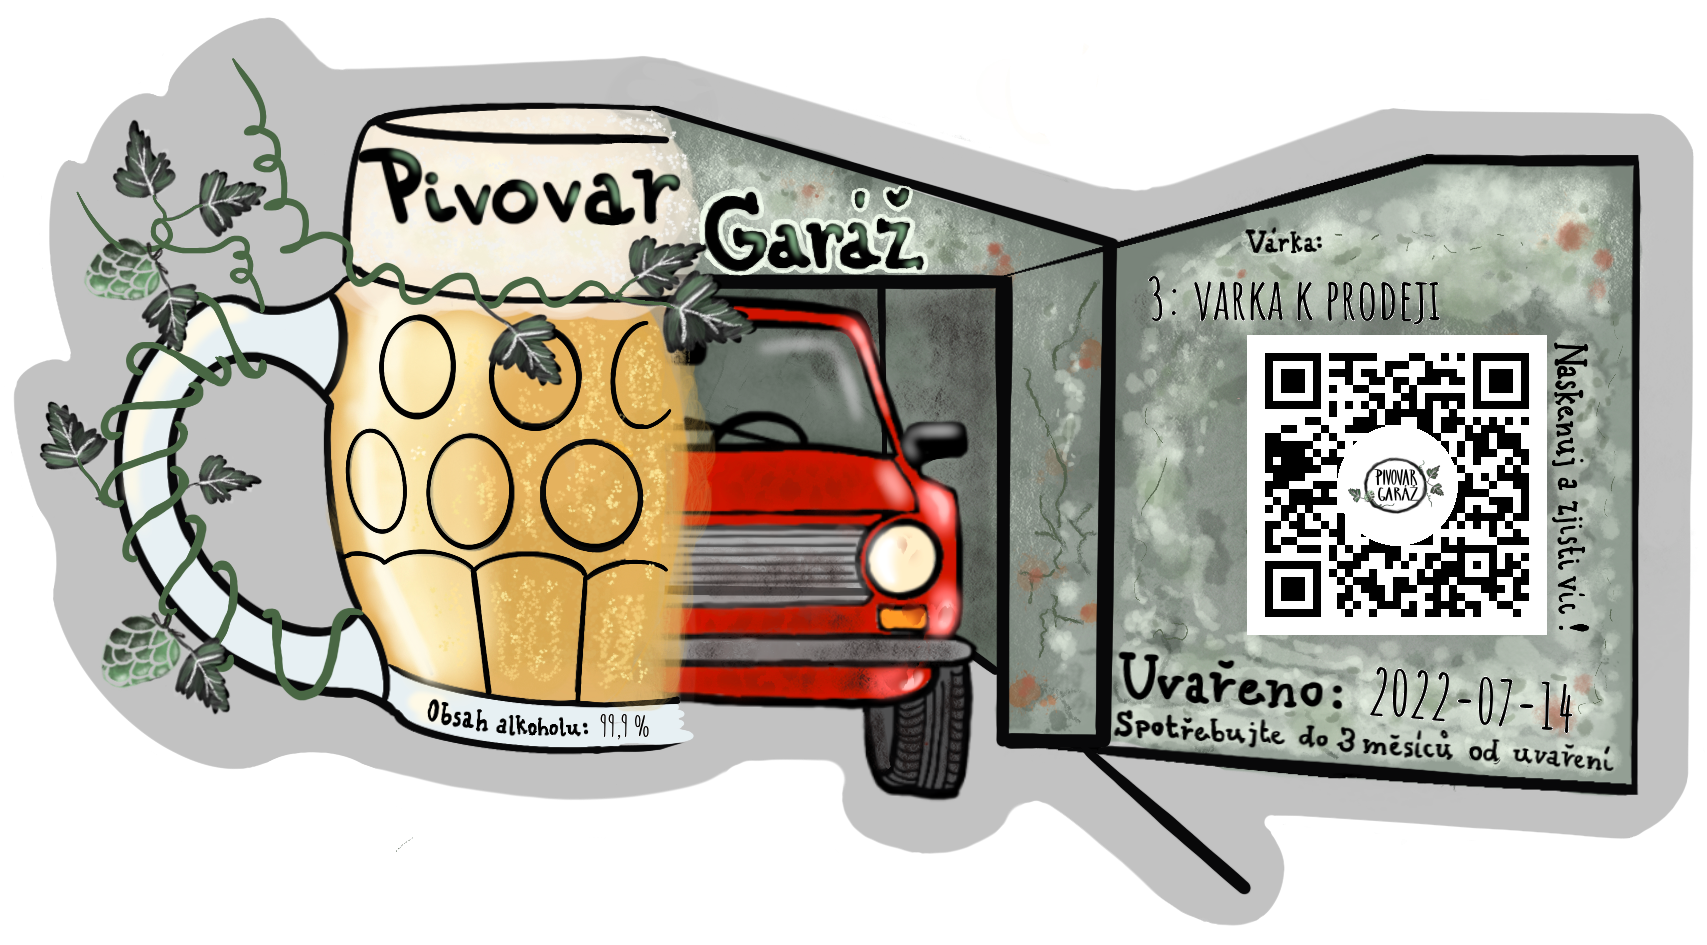
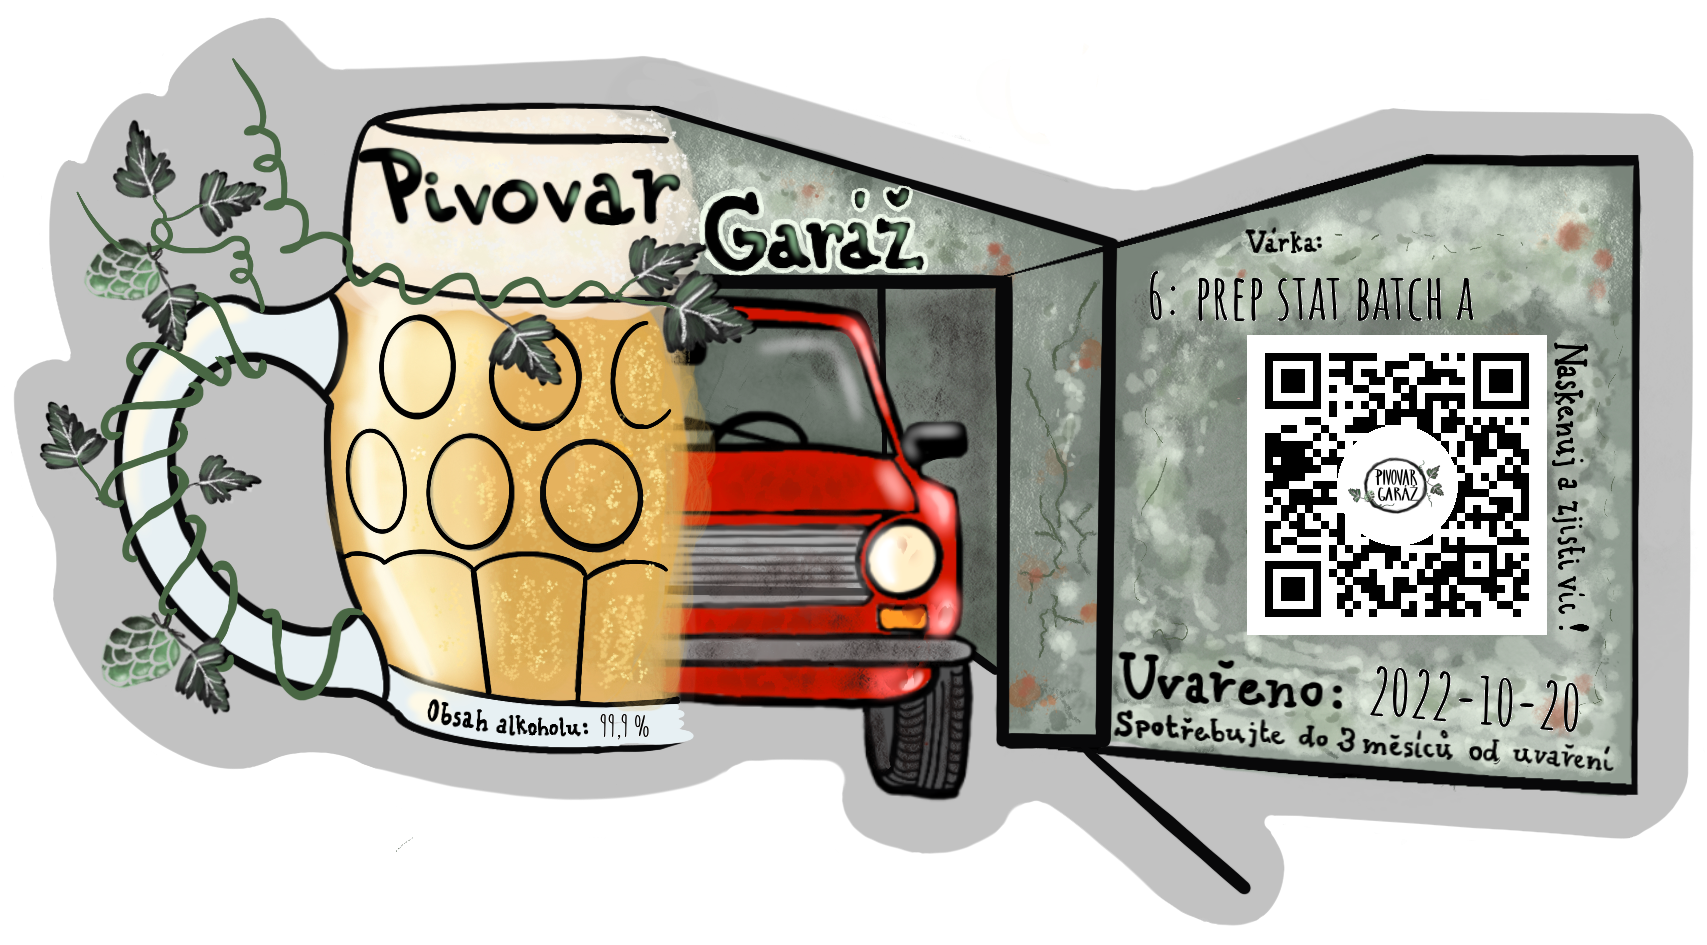
beer detail page #34

Changed region(s): [[0.652, 0.2762, 0.8694, 0.3376], [0.8073, 0.7058, 0.9315, 0.7672]]

diff --git a/index.html b/index.html
@@ -34,9 +34,13 @@
                     <p>U nás v pivovaru rádi <span class="text-primary">experimentujeme</span> s různými kombinacemi
                         chmelů
                         a sladů, stále hledáme naše místo a naší <span class="text-primary">specifickou chuť</span>. Pár
-                        osvědčených receptů už ale máme, najdeš je po přihlášení v naší <span
-                            class="text-primary">Elektronické Garáži</span>.</p>
-                    <a href="#egarage" class="btn btn-primary">Co je Elektronická Garáž?</a>
+                        <span class="text-primary">osvědčených receptů</span> už ale máme, tak na ně klidně koukni.
+                    </p>
+                    <a href="lists/beersPage.php" class="btn btn-primary"><i class="bi bi-cup pe-2"></i>Chci víc</a>
+                    <p class="pt-4">Nebo se rovnou můžeš podívat na <span class="text-primary">várky</span>, které jsme
+                        <span class="text-primary">z</span> těchto <span class="text-primary">piv uvařili</span>.</p>
+                    <a href="lists/batchesPage.php" class="btn btn-primary"><i class="bi bi-eye pe-2"></i>Ukaž mi
+                        várky</a>
                 </div>
             </div>
         </div>
@@ -49,9 +53,12 @@
                 <p>U nás v pivovaru rádi <span class="text-primary">experimentujeme</span> s různými kombinacemi
                     chmelů
                     a sladů, stále hledáme naše místo a naší <span class="text-primary">specifickou chuť</span>. Pár
-                    osvědčených receptů už ale máme, najdeš je po přihlášení v naší <span
-                        class="text-primary">Elektronické Garáži</span>.</p>
-                <a href="#egarage" class="btn btn-primary">Co je Elektronická Garáž?</a>
+                    <span class="text-primary">osvědčených receptů</span> už ale máme, tak na ně klidně koukni.
+                </p>
+                <a href="lists/beersPage.php" class="btn btn-primary"><i class="bi bi-cup pe-2"></i>Chci víc</a>
+                <p class="pt-4">Nebo se rovnou můžeš podívat na <span class="text-primary">várky</span>, které jsme
+                    <span class="text-primary">z</span> těchto <span class="text-primary">piv uvařili</span>.</p>
+                <a href="lists/batchesPage.php" class="btn btn-primary"><i class="bi bi-eye pe-2"></i>Ukaž mi várky</a>
             </div>
         </div>
     </div>
@@ -245,8 +252,8 @@
                                 Jakožto zakladatel mají jeho slova
                                 <span class="text-primary">největší váhu</span> v manažerských otázkách.
                             </p>
-                            <a class="btn btn-primary" href="https://www.facebook.com/jakub.cerny.3572" target="_blank"><i
-                                    class="bi bi-facebook pe-2"></i>Facebook</a>
+                            <a class="btn btn-primary" href="https://www.facebook.com/jakub.cerny.3572"
+                                target="_blank"><i class="bi bi-facebook pe-2"></i>Facebook</a>
                         </div>
                     </div>
 
@@ -286,10 +293,10 @@
                                 zastává funkci <span class="text-primary">dodavatele sekundárního materiálu</span> a
                                 spolu s Vojtou se <span class="text-primary">stará o socky</span>.
                             </p>
-                            <a class="btn btn-primary" href="https://www.instagram.com/michal.lahvy02/" target="_blank"><i
-                                    class="bi bi-instagram pe-2"></i>Instagram</a>
-                            <a class="btn btn-primary" href="https://www.facebook.com/profile.php?id=100008587869148" target="_blank"><i
-                                    class="bi bi-facebook pe-2"></i>Facebook</a>
+                            <a class="btn btn-primary" href="https://www.instagram.com/michal.lahvy02/"
+                                target="_blank"><i class="bi bi-instagram pe-2"></i>Instagram</a>
+                            <a class="btn btn-primary" href="https://www.facebook.com/profile.php?id=100008587869148"
+                                target="_blank"><i class="bi bi-facebook pe-2"></i>Facebook</a>
                         </div>
                     </div>
 

diff --git a/styles/lists/card.css b/styles/lists/card.css
@@ -1,0 +1,53 @@
+.card-body{
+    -webkit-box-shadow: 0px 0px 10px 0px rgba(108, 117, 125, 0.75);
+    -moz-box-shadow: 0px 0px 10px 0px rgba(108, 117, 125, 0.75);
+    box-shadow: 0px 0px 10px 0px rgba(108, 117, 125, 0.75);
+    padding: 0;
+    transition: all .25s;
+    cursor: pointer;
+}
+
+.card-wrapper{
+    max-height: 30vh;
+    height: 30vh;
+    max-width: 100%;
+    overflow: hidden;
+    position: relative;
+}
+
+.card-background-image {
+    pointer-events: auto;
+    background-size: cover;
+    background-repeat: no-repeat;
+    background-position: center center;   
+    height: 100%;
+    transition: all .25s;
+}
+
+.card-fade {
+    pointer-events: none;
+    height: 100%;
+    background: linear-gradient(0deg, rgba(33, 37, 41, 1) 0%, rgba(33, 37, 41, .9) 20%, rgba(0, 0, 0, 0) 100%);
+}
+
+.card-body h2 {
+    pointer-events: none;
+    bottom: .5em;
+    position: relative;
+    width: 100%;
+    transition: all .25s;
+}
+
+.card-body:hover h2 {
+    transform: scale(1.25);
+}
+
+.card-body:hover .card-background-image {
+    transform: scale(105%);
+}
+
+.card-body:hover{
+    -webkit-box-shadow: 0px 10px 15px 0px rgba(255, 193, 7, 0.75);
+    -moz-box-shadow: 0px 10px 15px 0px rgba(255, 193, 7, 0.75);
+    box-shadow: 0px 10px 15px 0px rgba(255, 193, 7, 0.75);
+}

diff --git a/styles/lists/detail-page.css b/styles/lists/detail-page.css
@@ -1,0 +1,7 @@
+.cover-image{
+    height: 75vh;
+    position: relative;
+    background-size: cover;
+    background-repeat: no-repeat;
+    background-position: center center;
+}

diff --git a/lists/beerDetail.php b/lists/beerDetail.php
@@ -1,0 +1,88 @@
+<?php
+require_once "../garage/config.php";
+
+$stmt = $link->prepare("SELECT id, label FROM beer WHERE id=?");
+$stmt->bind_param("i", $_GET["id"]);
+$stmt->execute();
+$json = json_decode(file_get_contents("../garage/pagesData/beers.json"), true);
+$beer;
+if ($result = $stmt->get_result()) {
+    while ($row = $result->fetch_assoc()) {
+        $beer = [
+            "id" => $row["id"],
+            "label" => $row["label"],
+            "thumbnailName" => $json[$row["id"]]["thumbnailName"],
+            "shortDesc" => $json[$row["id"]]["shortDesc"],
+            "longDesc" => $json[$row["id"]]["longDesc"],
+        ];
+    }
+}
+?>
+<!DOCTYPE html>
+<html lang="cz">
+
+<head>
+    <meta charset="UTF-8">
+    <title><?php echo $beer["label"]; ?></title>
+    <meta name="viewport" content="width=device-width,initial-scale=1">
+    <link rel="stylesheet" href="https://cdn.jsdelivr.net/npm/bootstrap-icons@1.7.2/font/bootstrap-icons.css">
+    <link href="../styles/custom.min.css" rel="stylesheet">
+    <link href="../styles/lists/card.css" rel="stylesheet">
+    <link href="../styles/lists/detail-page.css" rel="stylesheet">
+</head>
+
+<body class="text-light bg-dark text-center">
+    <div class="cover-image" style="background-image: url('../imgs/beers/<?php echo $beer["thumbnailName"]; ?>');"></div>
+    <div class="m-md-5 p-md-5 p-3 ">
+        <h1><?php echo $beer["id"] . ": " . "<span class='text-primary'>" . $beer["label"] . "</span>"; ?></h1>
+        <a class="btn btn-outline-primary" href="beersPage.php"><i class="bi bi-arrow-left-circle pe-2"></i>Zpět na seznam</a>
+        <h3 class="text-primary pt-4">Popis</h3>
+        <p><?php echo $beer["shortDesc"]; ?></p>
+        <h3 class="text-primary pt-4">Detailní popis</h3>
+        <p><?php echo $beer["longDesc"]; ?></p>
+        <h3 class="text-primary pt-4">Várky</h3>
+        <p class="text-muted">Tady je seznam várek, který jsme uvařili z tohohle receptu</p>
+        <div class="row">
+
+            <?php
+            $batches = [];
+            $stmt = $link->prepare("SELECT b.id, b.label, b.created, s.label AS statusLabel, s.color FROM batch b INNER JOIN status_batch s ON b.id_status=s.id WHERE b.id_beer=?;");
+            $stmt->bind_param("i", $_GET["id"]);
+            $stmt->execute();
+            $json = json_decode(file_get_contents("../garage/pagesData/beers.json"), true);
+            if ($result = $stmt->get_result()) {
+                while ($row = $result->fetch_assoc()) {
+                    $batches[$row["id"]] = [
+                        "label" => $row["label"],
+                        "created" => $row["created"],
+                        "status" => [
+                            "label" => $row["statusLabel"],
+                            "color" => $row["color"]
+                        ]
+                    ];
+                }
+            }
+
+            if (count($batches) > 0) {
+                foreach ($batches as $key => $batch) {
+                    echo '<div class="col-12 col-md-6 p-2 text-center">
+                    <div class="card-body" onclick="window.location = \'beerDetail.php?id=' . $key . '\';">
+                    <div class="card-wrapper">
+                    <div class="card-background-image" style="background-image: url(\'../imgs/beers/' . "0.jpg" . '\');">
+                    <div class="card-fade"></div>
+                    </div>            
+                    </div>
+                    <h2 class="text-primary"><span class="me-2 badge rounded-pill" style="background-color:#' . $batch["status"]["color"] . ';">' . $batch["status"]["label"] . '</span>' . $batch["label"] . '</h2>
+                    <p class="text-muted">uvařeno ' . $batch["created"] . '</p>
+                    </div>
+                    </div>';
+                }
+            } else {
+                echo '<p class="pt-3"> No, jak vidíš, moc toho tady není. Ale ono to přijde, neboj. Jenom se nesmí nikam spěchat.</p>';
+            }
+            ?>
+        </div>
+    </div>
+</body>
+
+</html>

diff --git a/lists/batchesPage.php b/lists/batchesPage.php
@@ -1,0 +1,63 @@
+<?php
+require_once "../garage/config.php";
+
+$batchesSorted = [];
+$stmt = $link->prepare("SELECT ba.id, be.id AS beerId, be.label AS beerLabel, ba.label AS batchLabel, ba.created, s.label AS statusLabel, s.color 
+    FROM batch ba INNER JOIN beer be ON ba.id_beer=be.id INNER JOIN status_batch s ON ba.id_status=s.id;");
+$stmt->execute();
+$json = json_decode(file_get_contents("../garage/pagesData/beers.json"), true);
+if ($result = $stmt->get_result()) {
+    while ($row = $result->fetch_assoc()) {
+        if (!isset($batchesSorted[$row["beerId"]])) {
+            $batchesSorted[$row["beerId"]] = [
+                "label" => $row["beerLabel"],
+                "batches" => []
+            ];
+        }
+        $batchesSorted[$row["beerId"]]["batches"][$row["id"]] = [
+            "label" => $row["batchLabel"],
+            "created" => $row["created"]
+            //"thumbnailName" => $json[$row["id"]]["thumbnailName"]
+        ];
+    }
+}
+?>
+<!DOCTYPE html>
+<html lang="cz">
+
+<head>
+    <meta charset="UTF-8">
+    <title>Piva</title>
+    <meta name="viewport" content="width=device-width,initial-scale=1">
+    <link rel="stylesheet" href="https://cdn.jsdelivr.net/npm/bootstrap-icons@1.7.2/font/bootstrap-icons.css">
+    <link href="../styles/custom.min.css" rel="stylesheet">
+    <link href="../styles/lists/card.css" rel="stylesheet">
+</head>
+
+<body class="m-md-5 p-md-5 p-3 text-light bg-dark">
+    <h1><span class="text-primary">Naše</span> piva</h1>
+    <p class="text-muted">V detailu každého piva můžeš zjistit, jaké várky jsme z něj uvařily, nebo si o něm jenom přečíst.</p>
+    <a class="btn btn-outline-primary" href="../index.html"><i class="bi bi-arrow-left-circle pe-2"></i>Zpět</a>
+    <div class="row">
+        <?php
+        if (count($batchesSorted) > 0) {
+            foreach ($batchesSorted as $key => $batch) {
+                echo '<div class="col-12 col-md-6 p-2 text-center">
+                    <div class="card-body" onclick="window.location = \'beerDetail.php?id=' . $key . '\';">
+                        <div class="card-wrapper">
+                            <div class="card-background-image" style="background-image: url(\'../imgs/beers/' . $beer["thumbnailName"] . '\');">
+                                <div class="card-fade"></div>
+                            </div>            
+                        </div>
+                        <h2 class="text-primary">' . $beer["label"] . '</h2>
+                    </div>
+                </div>';
+            }
+        } else {
+            echo '<p class="pt-3"> No, jak vidíš, moc toho tady není. Ale ono to přijde, neboj. Jenom se nesmí nikam spěchat.</p>';
+        }
+        ?>
+    </div>
+</body>
+
+</html>

diff --git a/lists/beersPage.php b/lists/beersPage.php
@@ -1,0 +1,57 @@
+<?php
+require_once "../garage/config.php";
+
+$beers = [];
+$stmt = $link->prepare("SELECT id, label FROM beer;");
+$stmt->execute();
+$json = json_decode(file_get_contents("../garage/pagesData/beers.json"), true);
+if ($result = $stmt->get_result()) {
+    while ($row = $result->fetch_assoc()) {
+        $beers[$row["id"]] = [
+            "label" => $row["label"],
+            "thumbnailName" => $json[$row["id"]]["thumbnailName"]
+        ];
+    }
+}
+// TODO move thumbnail name to databese, so i dont have to read the json here
+// TODO move both desc texts to database
+?>
+<!DOCTYPE html>
+<html lang="cz">
+
+<head>
+    <meta charset="UTF-8">
+    <title>Piva</title>
+    <meta name="viewport" content="width=device-width,initial-scale=1">
+    <link rel="stylesheet" href="https://cdn.jsdelivr.net/npm/bootstrap-icons@1.7.2/font/bootstrap-icons.css">
+    <link href="../styles/custom.min.css" rel="stylesheet">
+    <link href="../styles/lists/card.css" rel="stylesheet">
+</head>
+
+<body class="m-md-5 p-md-5 p-3 text-light bg-dark">
+    <h1><span class="text-primary">Naše</span> piva</h1>
+    <p class="text-muted">V detailu každého piva můžeš zjistit, jaké várky jsme z něj uvařily, nebo si o něm jenom přečíst.</p>
+    <a class="btn btn-outline-primary" href="../index.html"><i class="bi bi-arrow-left-circle pe-2"></i>Zpět</a>
+    <div class="row">
+        <?php
+        if (count($beers) > 0) {
+            foreach ($beers as $key => $beer) {
+                echo '<div class="col-12 col-md-6 p-2 text-center">
+                    <div class="card-body" onclick="window.location = \'beerDetail.php?id=' . $key . '\';">
+                        <div class="card-wrapper">
+                            <div class="card-background-image" style="background-image: url(\'../imgs/beers/' . $beer["thumbnailName"] . '\');">
+                                <div class="card-fade"></div>
+                            </div>            
+                        </div>
+                        <h2 class="text-primary">' . $beer["label"] . '</h2>
+                    </div>
+                </div>';
+            }
+        } else {
+            echo '<p class="pt-3"> No, jak vidíš, moc toho tady není. Ale ono to přijde, neboj. Jenom se nesmí nikam spěchat.</p>';
+        }
+        ?>
+    </div>
+</body>
+
+</html>

diff --git a/garage/homepage.php b/garage/homepage.php
@@ -101,7 +101,7 @@ if ($result = $stmt->get_result()) {
                             <td>' . $myOrder["thirds"] . "<br>" . $thirdsPrice . "&nbsp;Kč<br>" . $myOrder["batch"]["thirdPrice"] . "&nbsp;Kč/ks" . '</td>
                             <td>' . $myOrder["pints"] . "<br>" . $pintsPrice . "&nbsp;Kč<br>" . $myOrder["batch"]["pintPrice"] . "&nbsp;Kč/ks" . '</td>
                             <td><span class="text-primary fw-bold">' . $pintsPrice + $thirdsPrice . '&nbsp;Kč</span></td>
-                            <td><span class="ms-2 badge rounded-pill" style="background-color:#' . $myOrder["status"]["color"] . ';">' . $myOrder["status"]["label"] . '</td>
+                            <td><span class="ms-2 badge rounded-pill" style="background-color:#' . $myOrder["status"]["color"] . ';">' . $myOrder["status"]["label"] . '</span></td>
                             <td>' . $btn . '</td>
                         </tr>';
                 }
